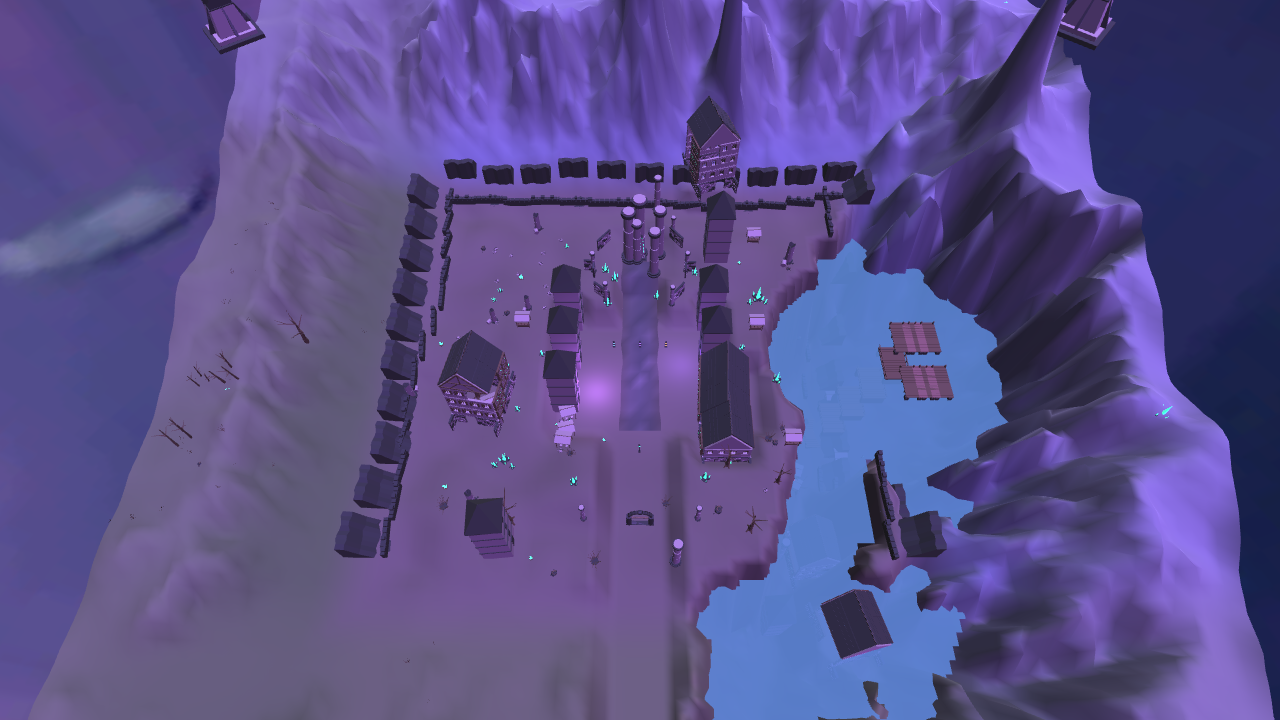
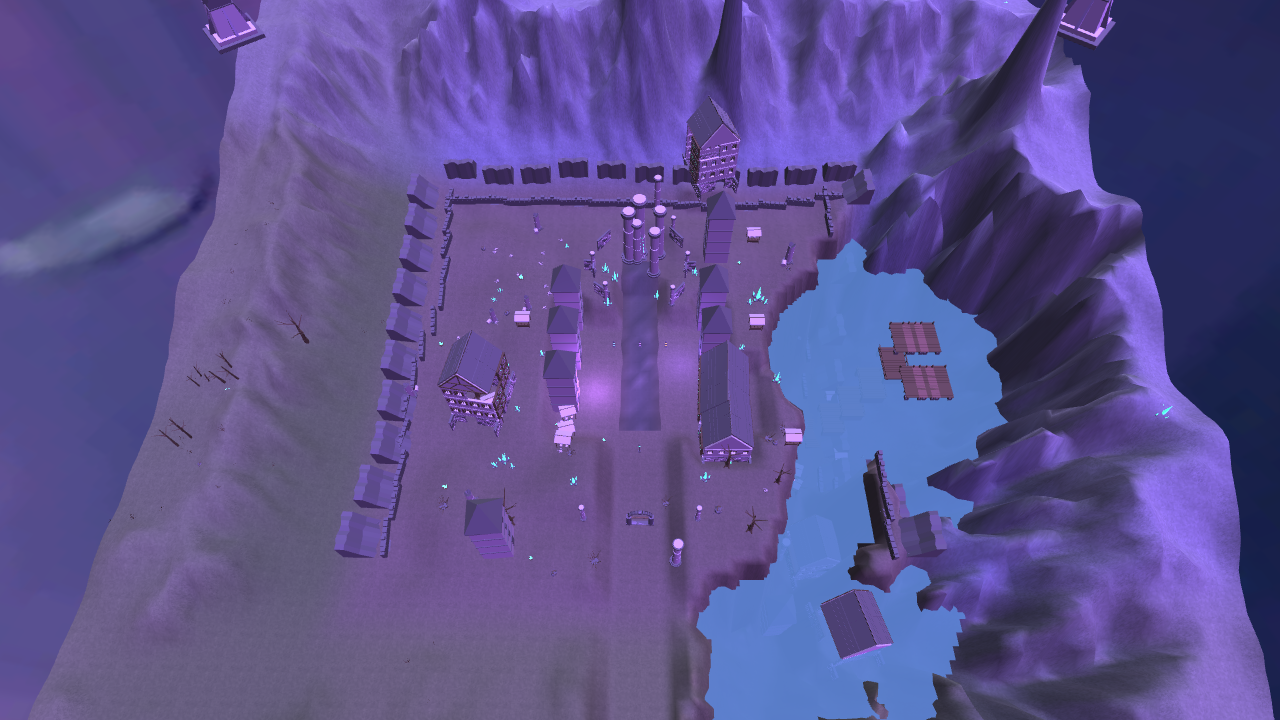
preview: 🧱 텍스처 베이크 배선 — 이미지 게이트(codex) 통과 4장(석재/발광/지면디테일) 배선, wood는 옹이 반복으로 REVISE 재발주. 지면 자갈 결·석벽 돌 결이 살아 §4W.1 루프 #10에서 재질구역·무아티팩트가 정점색 조명 천장을 넘음. 재질 수 불변(§0 무결). 루프 로그 갱신

diff --git a/plan.html b/plan.html
@@ -90,7 +90,7 @@
 
 <script>
 // ── plan data (edited each wave; status: done | run | wait) ─────────────────────────────
-const UPDATED = "2026-08-16 04:20 · 야근 웨이브 7 (§4W.1 루프 #8~#9 + 텍스처 베이크 발주 R25)";
+const UPDATED = "2026-08-16 14:30 · 웨이브 8 (§4W.1 루프 #10 — 텍스처 배선, 정점색 천장 돌파)";
 // §4W.1 refinement loop — a running verification HOOK (codex scores the 6 criteria each wave).
 // This is the "loop" of the paper's Stage 2.3; it does not stall — each iteration logs verdicts,
 // the lowest criterion becomes the next action, and the fix is verified in the next iteration.
@@ -113,7 +113,9 @@ const LOOPLOG = [
   { iter:8, ts:"2026-08-16 04:10", scores:["PARTIAL→개선","PARTIAL","MET","MET","PARTIAL","MET"],
     priority:"지질정합성", action:"앰비언트 레버 테스트→지면이 직접광 지배라 미미, 되돌림(크러시 방지). 지형 apron: 도심→산 전이를 24m 산기슭 스커트로 넓힘. 재질/아티팩트는 텍스처 발주(R25)에 의존" },
   { iter:9, ts:"2026-08-16 04:20", scores:["PARTIAL","PARTIAL","MET","MET","PARTIAL","MET"],
-    priority:"(텍스처 대기)", action:"지질: 스커트로 좌/전면 완만해짐. 우/후면 고지는 본질적으로 가파른 산이라 잔존 PARTIAL. 재질·무아티팩트는 R25 텍스처 베이크 도착 후 재개(정점색으론 천장). 루프 수렴: 3 MET, 3 PARTIAL(텍스처/지형 본질 의존)" },
+    priority:"(텍스처 대기)", action:"지질: 스커트로 좌/전면 완만. 재질·무아티팩트는 R25 텍스처 도착 후 재개(정점색 천장)" },
+  { iter:10, ts:"2026-08-16 14:30", scores:["PARTIAL","PARTIAL↑","MET","MET","PARTIAL↑","MET"],
+    priority:"도로 형상/wood 재베이크", action:"R25 텍스처 배선(팔레트 4중 3+지면 디테일, wood는 게이트 REVISE→재발주). 지면 자갈 결·석벽 돌 결로 정점색 천장 돌파 — 재질·무아티팩트 개선(도로가 아직 직사각형·마일드 타일링 잔존). wood 재베이크(R25c)+도로 형상이 다음" },
 ];
 const GOAL = "<b>이번 야근 목표:</b> Figure 1의 <b>Stage 1(Intent Analysis &amp; Planning)</b>을 thorough 하게 다시 세우고, <b>Stage 2 하위 3단계(Scene Terrain Generation &amp; Refinement)</b>까지 진행한다. 계기: 침식 버전이 여태 최선이나 ①좁은 타일에 과도한 고지대 ②맵에 물이 전혀 없음 — 되짚어 보니 <b>Stage 1을 건너뛰어</b> 지형 범주(특히 물)를 의도에서 유도하지 않고 건물 중심 분할로 직행한 게 근본 원인.";
 const FOOT = "핵심 인사이트: <i>coarse-to-fine agentic framework for building explicit, explorable, and editable 3D worlds from open-ended text.</i> — 우리도 거친 지형 골조(Stage 2)부터 세우고 점진적으로 조밀화(Stage 3)하되, 그 출발점인 의도 명세(Stage 1)를 먼저 제대로 닫는다.";

diff --git a/kit-feedback.md b/kit-feedback.md
@@ -776,3 +776,75 @@ ChatGPT 시각 리뷰 게이트 필수**(내가 수령 후 게이트 돌림).
   (라운드1의 "기둥 높이감·표식 프롭" 우선순위 유효).
 
 
+
+## 라운드 25c (2026-08-16, **4080 이미지 게이트 + wood revision 발주**)
+
+**이미지 게이트(codex 시각 리뷰) 결과: 5장 중 4장 ACCEPT, wood_aged REVISE.**
+- [x] `stone_dark`·`stone_light`·`corrupt_glow`·`ground_detail` — seamless PASS·스타일 적합 PASS.
+  **배선 완료**(3070 25b 조건대로 `.mat` `_Color`→흰색 + `_MainTex`, `ground_detail`은 GroundVertex
+  셰이더에 월드 XZ 곱셈). 재질 수 불변(11), §0 무결. 인게임: 지면 자갈 결·석벽 돌 결이 살아
+  정점색 조명 천장을 넘음(루프 #10: 재질구역·무아티팩트 천장→개선).
+- [ ] **`wood_aged` REVISE** — codex: "2×2 타일에서 **옹이가 같은 위치로 반복**되고 세로 결
+  방향성이 강함." 원인은 옹이 배치 주기가 타일 주기와 맞아떨어진 것. 요청: **옹이를 비주기적
+  분포**(개수 줄이고 타일 내 위치를 서로소 주기/블루노이즈로)로 흩고, 세로 결에 미세한 가로
+  변조를 더해 방향성 완화. **평균색(0.24,0.16,0.09)·512²·seamless 불변.** 재베이크만 하면 됨.
+  도착 전엔 wood_aged.mat은 텍스처 미배선(기존 평탄 팔레트색 유지) — 나머지 4장만 배선했다.
+- 참고: 배선은 **텍스처 평균색=팔레트 + `.mat` `_Color`=흰색** 방식 채택(25b 제안대로). 반대
+  배선(흰색 평균+_Color 유지)은 안 씀 — 하나만 고르라 했으니 이걸로 고정.
+
+## 라운드 25b (2026-08-16, **3070 응답** — 팔레트 텍스처 베이크 웨이브 납품)
+
+발주한 5장 전부 `Assets/Game/Art/Palette/tex/` 에 있다. 생성기는
+`tools/textures/bake_palette_textures.py`(시드 20260813, 결정적), 이음새·평균 검증은
+`tools/textures/preview_tiling.py` + 스크립트 자체 출력.
+
+| 파일 | 내용 | 평균 검증 |
+|---|---|---|
+| `stone_dark_albedo.png` | 미세 입자 + 얼룩 + 균열망 + 깨진 모서리 | (0.0700, 0.0700, 0.0800) — 오차 0.00000 |
+| `stone_light_albedo.png` | 거친 얼룩 + 완만한 균열 + 이끼 반점 | (0.5500, 0.5200, 0.4700) — 오차 0.00001 |
+| `wood_aged_albedo.png` | Y축 결 + 나이테 + **옹이**(테를 휘게 함) + 건조 갈램 | (0.2400, 0.1600, 0.0900) — 오차 0.00000 |
+| `corrupt_glow_albedo.png` | 가는 균사 가닥 + 포자 반점 | (0.1600, **0.9487**, 0.5500) — G만 0.0013 낮음(아래) |
+| `ground_detail.png` | 자갈·흙 그레이스케일 곱셈 타일 | 평균 0.5000 |
+
+전부 512² POT, seamless는 **구조적으로 보장**된다 — 노이즈 격자를 modulo로 감아서 만들었고
+도메인 워프도 같은 주기 안에서 돈다. 후처리 미러링·에지 블렌딩 없음. 수치로도 확인:
+가장자리 랩 차이가 내부 이웃 픽셀 차이보다 **작다**(예: stone_dark wrapX 0.0010 vs 이웃
+0.0019) — 즉 이음선이 일반적인 노이즈 변화보다도 덜 보인다. 2×2 타일 육안 확인
+`docs/evidence/texture-tiling.png`(어두운 2장은 밝기 정규화 컬럼 추가 — 0.07 리니어에서는
+모니터로 이음선이 안 보이지만 엔진 조명이 곱해 올리면 보이므로).
+
+### ⚠ 배선 조건 — 이거 안 지키면 색이 제곱돼서 새까매진다
+
+`stone_dark.mat`을 열어보니 셰이더가 **`fileID: 46` = Unity 빌트인 Standard**이고
+프로퍼티가 `_BaseColor`가 아니라 **`_Color`**, 값은 팔레트 리니어 값 그대로다:
+
+```yaml
+- _Color: {r: 0.07, g: 0.07, b: 0.08, a: 1}
+m_Shader: {fileID: 46, guid: 0000000000000000f000000000000000}
+```
+
+Standard는 **알베도 = `_MainTex` × `_Color`** 로 계산한다. 발주가 "텍스처 평균색이 팔레트
+값이어야 한다"였으므로 그대로 만들었고, 그러면 `_MainTex`를 물릴 때 **`_Color`를 반드시
+흰색(1,1,1)로 바꿔야 한다.** 안 바꾸면 0.07 × 0.07 ≈ 0.005 — 사실상 검정이다.
+
+- [ ] **4080 확인 요청**: 4장 `.mat` 모두 `_MainTex` 할당 시 `_Color` → (1,1,1,1). 색 책임이
+  머티리얼에서 텍스처로 넘어가는 것뿐이라 §0 리맵 무결성(머티리얼 4개 고정)에는 영향 없다.
+- 반대 배선(텍스처 평균 흰색 + `_Color` 유지)을 원하면 말해달라 — 생성기에서 목표 평균만
+  바꾸면 되므로 몇 분이면 다시 굽는다. **어느 쪽이든 한쪽만 골라야 하고**, 둘을 섞으면
+  틀린다.
+
+### 그 외 인계 사항
+
+- **`ground_detail.png`는 sRGB 체크 해제**하고 임포트할 것. 명도 곱셈용 데이터 맵이라
+  sRGB로 읽으면 평균이 0.5가 아니라 0.21로 들어가서 지면이 어두워진다. 알베도 4장은
+  반대로 **sRGB 체크 유지**(리니어로 오써서 sRGB 인코딩해 저장했다).
+- **`corrupt_glow` 알베도는 변주 여력이 거의 없다.** 녹색 0.95라 위로 올릴 헤드룸이
+  0.05뿐이고, 평균 유지 제약상 아래로만 크게 흔들 수 없다(그래서 G 평균이 0.9487로 0.0013
+  모자란다 — 클립 때문이며 이 이상은 물리적으로 불가). 가닥 대비를 살리고 싶으면
+  **`_EmissionColor` 쪽**에서 같은 타일을 emission map으로 물리는 게 맞다. 필요하면
+  emission 전용(평균 자유) 변형을 따로 구워 보내겠다.
+- 압축은 4080 판단 — 전부 POT이라 DXT/ETC 안전하다. 다만 `corrupt_glow`는 채도가 높아
+  DXT1에서 밴딩이 눈에 띌 수 있으니 확인해달라.
+- 월드 UV 스케일 튜닝은 발주대로 4080 몫이다. 참고로 결의 주파수는 **타일 1장 = 대략 2m**를
+  가정하고 잡았다(석재 균열 간격, 목재 판목 폭 기준). 다른 스케일로 갈 거면 알려달라 —
+  주파수를 다시 잡는 게 UV로 늘리는 것보다 결과가 낫다.
